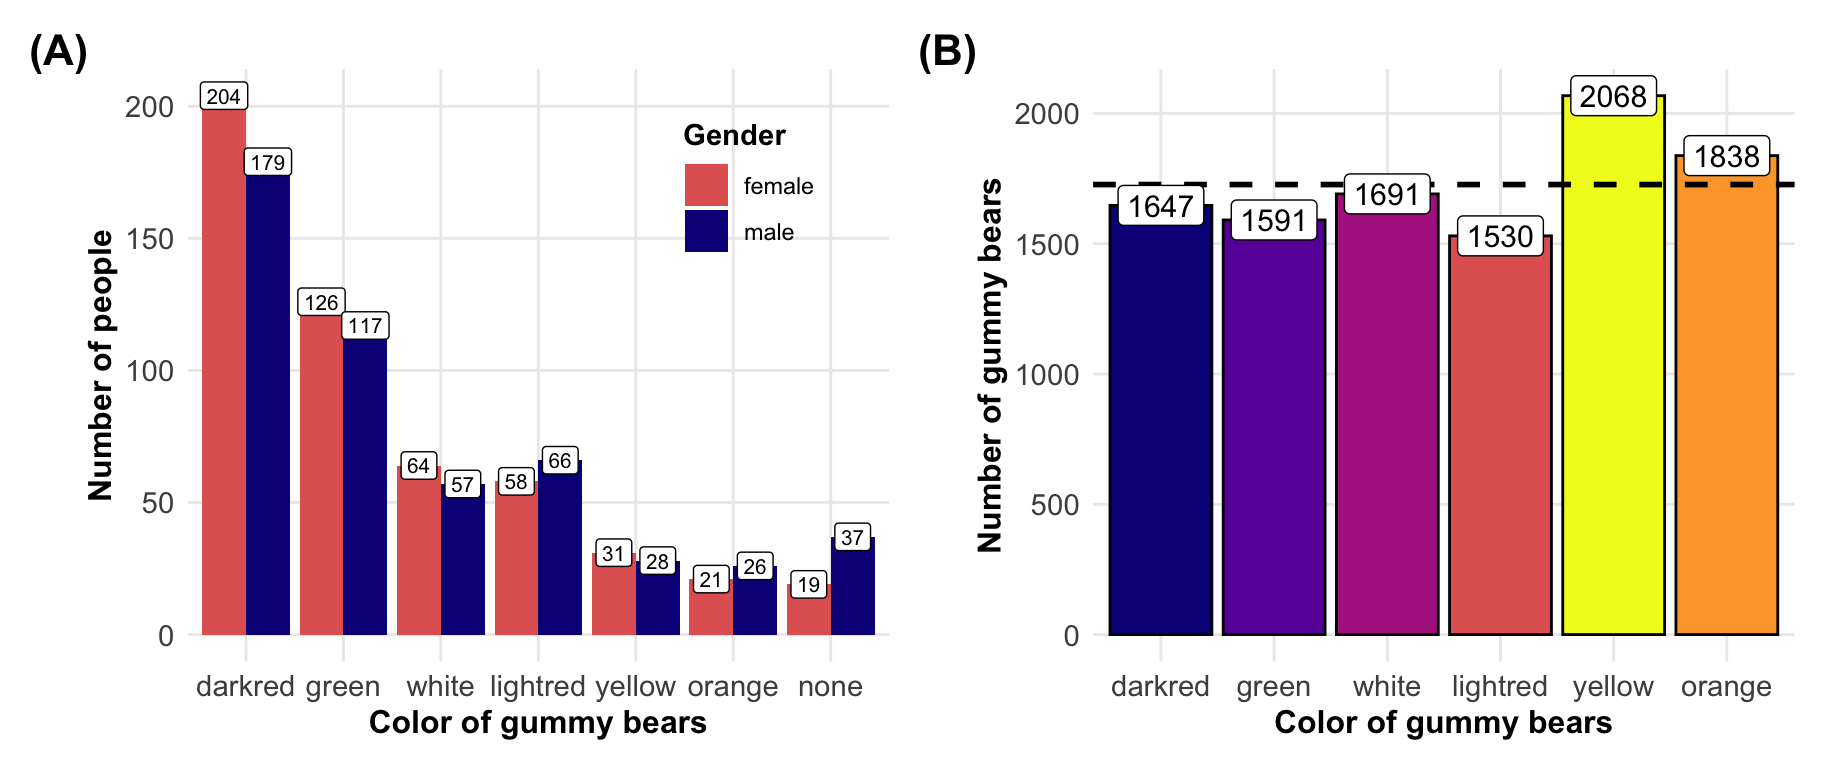
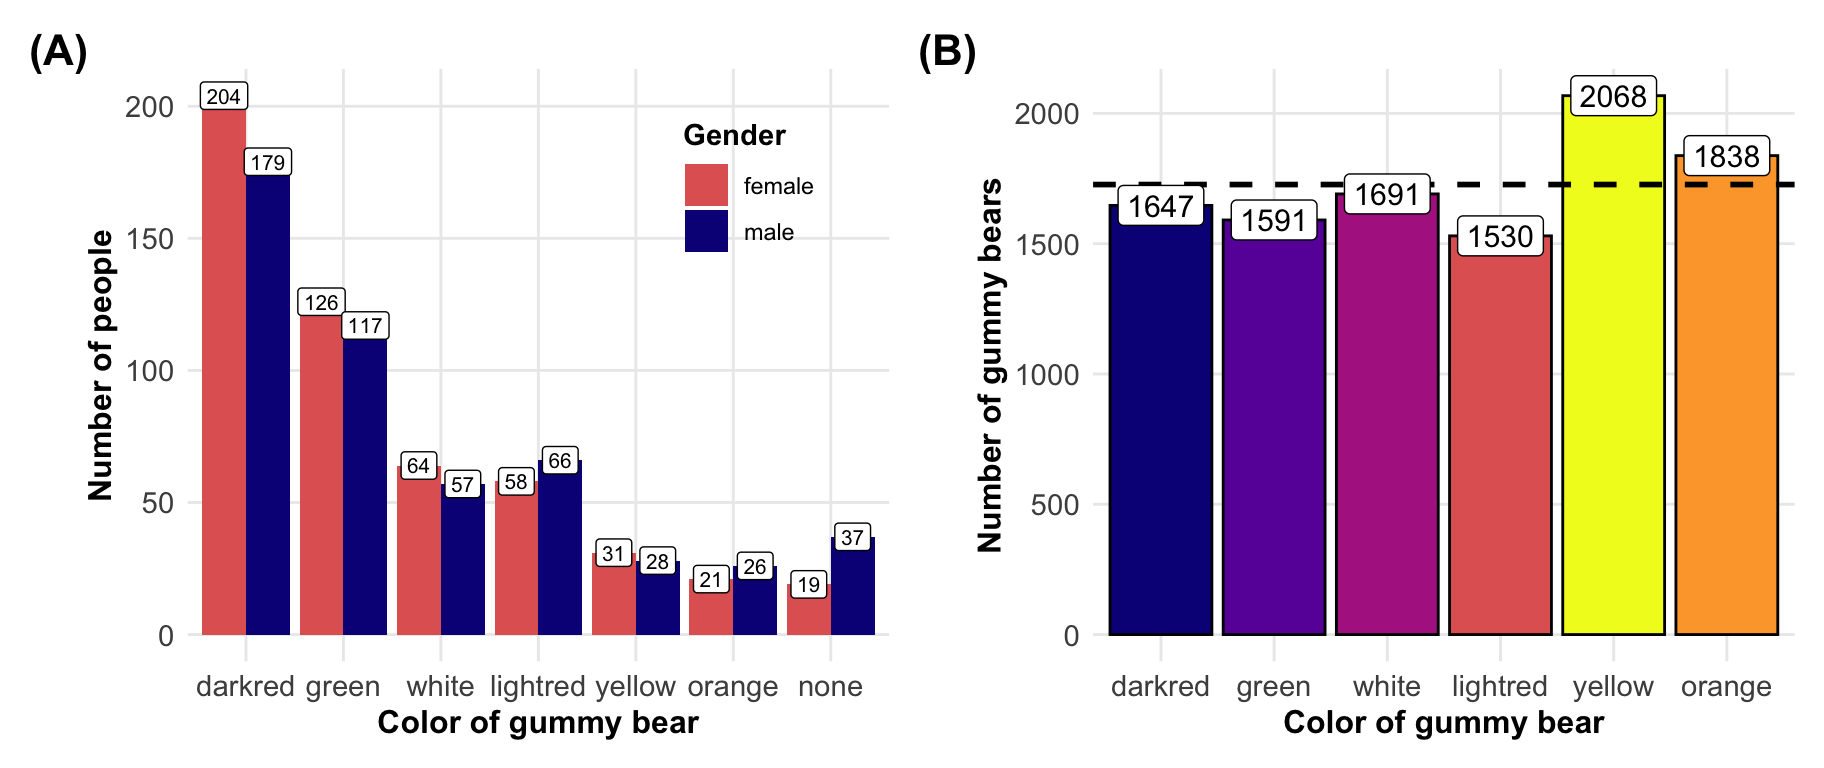
added

Changed region(s): [[0.6875, 0.9062, 0.9062, 0.9688], [0.1875, 0.9062, 0.4062, 0.9688]]

diff --git a/docs/interlude-I-gummibaers.html b/docs/interlude-I-gummibaers.html
@@ -454,7 +454,7 @@ window.Quarto = {
 </header>
 
 
-<p><em>Last modified on 29. September 2026 at 20:34:38</em></p>
+<p><em>Last modified on 30. September 2026 at 07:26:18</em></p>
 <blockquote class="blockquote">
 <p><em>“gummy Bears! Bouncing here and there and everywhere; High adventure that’s beyond compare; They are the gummy Bears.” — gummy Bears Theme, Adventures of the gummy Bears</em></p>
 </blockquote>
@@ -975,7 +975,7 @@ Figure&nbsp;4.4: Does Haribo know the common people’s preferences for gummy be
 <section id="gummy-bear-lottery" class="level3" data-number="4.4.4">
 <h3 data-number="4.4.4" class="anchored" data-anchor-id="gummy-bear-lottery"><span class="header-section-number">4.4.4</span> Gummy bear lottery</h3>
 <p><span class="math display">\[
-Pr = \cfrac{1}{6}^{b-1}
+Pr(c=1|b=1) = \cfrac{1}{6}^{b-1}
 \]</span></p>
 <div class="cell" data-layout-align="center">
 <div class="cell-output-display">
@@ -1844,7 +1844,7 @@ Figure&nbsp;4.6: Percentage of observed numbers of colours in a bag given differ
 <span id="cb1-324"><a href="#cb1-324" aria-hidden="true" tabindex="-1"></a>  <span class="fu">theme_book</span>() <span class="sc">+</span></span>
 <span id="cb1-325"><a href="#cb1-325" aria-hidden="true" tabindex="-1"></a>  <span class="fu">geom_bar</span>(<span class="at">position =</span> <span class="st">"dodge"</span>) <span class="sc">+</span></span>
 <span id="cb1-326"><a href="#cb1-326" aria-hidden="true" tabindex="-1"></a>  <span class="co">#scale_x_continuous(breaks = seq(5, 15, by = 1), limits = c(5, 15)) +</span></span>
-<span id="cb1-327"><a href="#cb1-327" aria-hidden="true" tabindex="-1"></a>  <span class="fu">labs</span>(<span class="at">x =</span> <span class="st">"Color of gummy bears"</span>, <span class="at">y =</span> <span class="st">"Number of people"</span>, <span class="at">fill =</span> <span class="st">"Gender"</span>) <span class="sc">+</span></span>
+<span id="cb1-327"><a href="#cb1-327" aria-hidden="true" tabindex="-1"></a>  <span class="fu">labs</span>(<span class="at">x =</span> <span class="st">"Color of gummy bear"</span>, <span class="at">y =</span> <span class="st">"Number of people"</span>, <span class="at">fill =</span> <span class="st">"Gender"</span>) <span class="sc">+</span></span>
 <span id="cb1-328"><a href="#cb1-328" aria-hidden="true" tabindex="-1"></a>  <span class="fu">theme</span>(<span class="at">legend.position =</span> <span class="fu">c</span>(<span class="fl">0.8</span>, <span class="fl">0.8</span>)) <span class="sc">+</span></span>
 <span id="cb1-329"><a href="#cb1-329" aria-hidden="true" tabindex="-1"></a>  <span class="fu">geom_label</span>(<span class="at">stat=</span><span class="st">'count'</span>, <span class="fu">aes</span>(<span class="at">label=</span>..count.., <span class="at">group =</span> gender), </span>
 <span id="cb1-330"><a href="#cb1-330" aria-hidden="true" tabindex="-1"></a>             <span class="at">size =</span> <span class="fl">2.75</span>, <span class="at">fill =</span> <span class="st">"white"</span>, <span class="at">position =</span> <span class="fu">position_dodge</span>(<span class="fl">0.9</span>)) <span class="sc">+</span></span>
@@ -1865,7 +1865,7 @@ Figure&nbsp;4.6: Percentage of observed numbers of colours in a bag given differ
 <span id="cb1-345"><a href="#cb1-345" aria-hidden="true" tabindex="-1"></a>  <span class="fu">theme_book</span>() <span class="sc">+</span></span>
 <span id="cb1-346"><a href="#cb1-346" aria-hidden="true" tabindex="-1"></a>  <span class="fu">geom_bar</span>(<span class="at">position =</span> <span class="st">"dodge"</span>, <span class="at">color =</span> <span class="st">"black"</span>, </span>
 <span id="cb1-347"><a href="#cb1-347" aria-hidden="true" tabindex="-1"></a>           <span class="at">fill =</span> <span class="fu">c</span>(<span class="st">"#0D0887FF"</span>, <span class="st">"#6A00A8FF"</span>, <span class="st">"#B12A90FF"</span>, <span class="st">"#E16462FF"</span> ,<span class="st">"#F0F921FF"</span>, <span class="st">"#FCA636FF"</span>)) <span class="sc">+</span></span>
-<span id="cb1-348"><a href="#cb1-348" aria-hidden="true" tabindex="-1"></a>  <span class="fu">labs</span>(<span class="at">x =</span> <span class="st">"Color of gummy bears"</span>, <span class="at">y =</span> <span class="st">"Number of gummy bears"</span>)  <span class="sc">+</span></span>
+<span id="cb1-348"><a href="#cb1-348" aria-hidden="true" tabindex="-1"></a>  <span class="fu">labs</span>(<span class="at">x =</span> <span class="st">"Color of gummy bear"</span>, <span class="at">y =</span> <span class="st">"Number of gummy bears"</span>)  <span class="sc">+</span></span>
 <span id="cb1-349"><a href="#cb1-349" aria-hidden="true" tabindex="-1"></a>  <span class="fu">geom_hline</span>(<span class="at">yintercept =</span> <span class="fu">floor</span>(<span class="fu">nrow</span>(count_bag_tbl)<span class="sc">/</span><span class="dv">6</span>), </span>
 <span id="cb1-350"><a href="#cb1-350" aria-hidden="true" tabindex="-1"></a>             <span class="at">linetype =</span> <span class="dv">2</span>, <span class="at">size =</span> <span class="dv">1</span>) <span class="sc">+</span></span>
 <span id="cb1-351"><a href="#cb1-351" aria-hidden="true" tabindex="-1"></a>  <span class="fu">geom_label</span>(<span class="at">stat=</span><span class="st">'count'</span>, <span class="fu">aes</span>(<span class="at">label=</span>..count..), <span class="at">size =</span> <span class="dv">4</span>) </span>
@@ -1880,7 +1880,7 @@ Figure&nbsp;4.6: Percentage of observed numbers of colours in a bag given differ
 <span id="cb1-360"><a href="#cb1-360" aria-hidden="true" tabindex="-1"></a><span class="fu">### Gummy bear lottery</span></span>
 <span id="cb1-361"><a href="#cb1-361" aria-hidden="true" tabindex="-1"></a></span>
 <span id="cb1-362"><a href="#cb1-362" aria-hidden="true" tabindex="-1"></a>$$</span>
-<span id="cb1-363"><a href="#cb1-363" aria-hidden="true" tabindex="-1"></a>Pr = \cfrac{1}{6}^{b-1}</span>
+<span id="cb1-363"><a href="#cb1-363" aria-hidden="true" tabindex="-1"></a>Pr(c=1|b=1) = \cfrac{1}{6}^{b-1}</span>
 <span id="cb1-364"><a href="#cb1-364" aria-hidden="true" tabindex="-1"></a>$$</span>
 <span id="cb1-365"><a href="#cb1-365" aria-hidden="true" tabindex="-1"></a></span>
 <span id="cb1-368"><a href="#cb1-368" aria-hidden="true" tabindex="-1"></a><span class="in">```{r}</span></span>
@@ -1917,7 +1917,7 @@ Figure&nbsp;4.6: Percentage of observed numbers of colours in a bag given differ
 <span id="cb1-399"><a href="#cb1-399" aria-hidden="true" tabindex="-1"></a>  <span class="fu">geom_point2</span>(<span class="at">data =</span> <span class="fu">filter</span>(grid_table_tbl, bears <span class="sc">%in%</span> <span class="dv">9</span><span class="sc">:</span><span class="dv">12</span>),</span>
 <span id="cb1-400"><a href="#cb1-400" aria-hidden="true" tabindex="-1"></a>              <span class="at">show.legend =</span> <span class="cn">FALSE</span>) <span class="sc">+</span></span>
 <span id="cb1-401"><a href="#cb1-401" aria-hidden="true" tabindex="-1"></a>  <span class="fu">scale_x_continuous</span>(<span class="at">breaks =</span> <span class="dv">1</span><span class="sc">:</span><span class="dv">12</span>) <span class="sc">+</span></span>
-<span id="cb1-402"><a href="#cb1-402" aria-hidden="true" tabindex="-1"></a>  <span class="fu">labs</span>(<span class="at">color =</span> <span class="st">"Number of colors"</span>, <span class="at">x =</span> <span class="st">"Number of bears in a bag"</span>,</span>
+<span id="cb1-402"><a href="#cb1-402" aria-hidden="true" tabindex="-1"></a>  <span class="fu">labs</span>(<span class="at">color =</span> <span class="st">"Number of colors (c) in a bag"</span>, <span class="at">x =</span> <span class="st">"Number of bears (b) in a bag"</span>,</span>
 <span id="cb1-403"><a href="#cb1-403" aria-hidden="true" tabindex="-1"></a>       <span class="at">y =</span> <span class="st">"Probability"</span>) <span class="sc">+</span></span>
 <span id="cb1-404"><a href="#cb1-404" aria-hidden="true" tabindex="-1"></a>  <span class="fu">scale_color_viridis</span>(<span class="at">option =</span> <span class="st">"plasma"</span>, <span class="at">discrete =</span> <span class="cn">TRUE</span>, <span class="at">end =</span> <span class="fl">0.9</span>) <span class="sc">+</span></span>
 <span id="cb1-405"><a href="#cb1-405" aria-hidden="true" tabindex="-1"></a>  <span class="fu">guides</span>(<span class="at">color =</span> <span class="fu">guide_legend</span>(<span class="at">nrow =</span> <span class="dv">1</span>, <span class="at">byrow =</span> <span class="cn">TRUE</span>)) </span>
@@ -1954,17 +1954,17 @@ Figure&nbsp;4.6: Percentage of observed numbers of colours in a bag given differ
 <span id="cb1-438"><a href="#cb1-438" aria-hidden="true" tabindex="-1"></a>             <span class="at">color =</span> <span class="fu">rep</span>(<span class="dv">1</span><span class="sc">:</span><span class="dv">6</span>, <span class="dv">2</span>),</span>
 <span id="cb1-439"><a href="#cb1-439" aria-hidden="true" tabindex="-1"></a>             <span class="at">percent =</span> <span class="fu">c</span>(<span class="fu">c</span>(<span class="dv">0</span>, <span class="dv">0</span>, bear_8_vec),</span>
 <span id="cb1-440"><a href="#cb1-440" aria-hidden="true" tabindex="-1"></a>                         <span class="dv">0</span>, <span class="fl">0.002268376</span>, <span class="fl">0.069015775</span>, <span class="fl">0.364583333</span>, <span class="fl">0.450102881</span>, <span class="fl">0.114026063</span>),</span>
-<span id="cb1-441"><a href="#cb1-441" aria-hidden="true" tabindex="-1"></a>             <span class="at">bears =</span> <span class="st">"8 bears in a bag"</span>),</span>
+<span id="cb1-441"><a href="#cb1-441" aria-hidden="true" tabindex="-1"></a>             <span class="at">bears =</span> <span class="st">"8 bears in a bag (b = 8)"</span>),</span>
 <span id="cb1-442"><a href="#cb1-442" aria-hidden="true" tabindex="-1"></a>      <span class="fu">tibble</span>(<span class="at">type =</span> <span class="fu">gl</span>(<span class="dv">2</span>, <span class="dv">6</span>, <span class="at">labels =</span> <span class="fu">c</span>(<span class="st">"observed"</span>, <span class="st">"expected"</span>)),</span>
 <span id="cb1-443"><a href="#cb1-443" aria-hidden="true" tabindex="-1"></a>             <span class="at">color =</span> <span class="fu">rep</span>(<span class="dv">1</span><span class="sc">:</span><span class="dv">6</span>, <span class="dv">2</span>),</span>
 <span id="cb1-444"><a href="#cb1-444" aria-hidden="true" tabindex="-1"></a>             <span class="at">percent =</span> <span class="fu">c</span>(<span class="fu">c</span>(<span class="dv">0</span>, bear_9_vec),</span>
 <span id="cb1-445"><a href="#cb1-445" aria-hidden="true" tabindex="-1"></a>                         <span class="dv">0</span>, <span class="fl">0.000759102</span>, <span class="fl">0.036020138</span>, <span class="fl">0.277563443</span>, <span class="fl">0.496613512</span>, <span class="fl">0.18904321</span>),</span>
-<span id="cb1-446"><a href="#cb1-446" aria-hidden="true" tabindex="-1"></a>             <span class="at">bears =</span> <span class="st">"9 bears in a bag"</span>),</span>
+<span id="cb1-446"><a href="#cb1-446" aria-hidden="true" tabindex="-1"></a>             <span class="at">bears =</span> <span class="st">"9 bears in a bag (b = 9)"</span>),</span>
 <span id="cb1-447"><a href="#cb1-447" aria-hidden="true" tabindex="-1"></a>      <span class="fu">tibble</span>(<span class="at">type =</span> <span class="fu">gl</span>(<span class="dv">2</span>, <span class="dv">6</span>, <span class="at">labels =</span> <span class="fu">c</span>(<span class="st">"observed"</span>, <span class="st">"simulated"</span>)),</span>
 <span id="cb1-448"><a href="#cb1-448" aria-hidden="true" tabindex="-1"></a>             <span class="at">color =</span> <span class="fu">rep</span>(<span class="dv">1</span><span class="sc">:</span><span class="dv">6</span>, <span class="dv">2</span>),</span>
 <span id="cb1-449"><a href="#cb1-449" aria-hidden="true" tabindex="-1"></a>             <span class="at">percent =</span> <span class="fu">c</span>(<span class="fu">c</span>(<span class="dv">0</span>, <span class="dv">0</span>, bear_10_vec),</span>
 <span id="cb1-450"><a href="#cb1-450" aria-hidden="true" tabindex="-1"></a>                         <span class="dv">0</span>, <span class="fl">0.0002601</span>, <span class="fl">0.0185012</span>, <span class="fl">0.2029175</span>, <span class="fl">0.5064902</span>, <span class="fl">0.271831</span>),</span>
-<span id="cb1-451"><a href="#cb1-451" aria-hidden="true" tabindex="-1"></a>             <span class="at">bears =</span> <span class="st">"10 bears in a bag"</span>)</span>
+<span id="cb1-451"><a href="#cb1-451" aria-hidden="true" tabindex="-1"></a>             <span class="at">bears =</span> <span class="st">"10 bears in a bag (b = 10)"</span>)</span>
 <span id="cb1-452"><a href="#cb1-452" aria-hidden="true" tabindex="-1"></a>)  <span class="sc">|&gt;</span> </span>
 <span id="cb1-453"><a href="#cb1-453" aria-hidden="true" tabindex="-1"></a>  <span class="fu">mutate</span>(<span class="at">bears =</span> <span class="fu">as_factor</span>(bears)) <span class="sc">|&gt;</span> </span>
 <span id="cb1-454"><a href="#cb1-454" aria-hidden="true" tabindex="-1"></a>  <span class="fu">ggplot</span>(<span class="fu">aes</span>(<span class="at">x =</span> color, <span class="at">y =</span> percent, <span class="at">fill =</span> type)) <span class="sc">+</span></span>
@@ -1973,7 +1973,7 @@ Figure&nbsp;4.6: Percentage of observed numbers of colours in a bag given differ
 <span id="cb1-457"><a href="#cb1-457" aria-hidden="true" tabindex="-1"></a>  <span class="fu">scale_x_continuous</span>(<span class="at">breaks =</span> <span class="dv">1</span><span class="sc">:</span><span class="dv">6</span>) <span class="sc">+</span></span>
 <span id="cb1-458"><a href="#cb1-458" aria-hidden="true" tabindex="-1"></a>  <span class="fu">scale_y_continuous</span>(<span class="at">limits =</span> <span class="fu">c</span>(<span class="dv">0</span>, <span class="fl">0.6</span>), <span class="at">breaks =</span> <span class="fu">seq</span>(<span class="dv">0</span>, <span class="fl">0.6</span>, <span class="fl">0.1</span>)) <span class="sc">+</span></span>
 <span id="cb1-459"><a href="#cb1-459" aria-hidden="true" tabindex="-1"></a>  <span class="fu">scale_fill_viridis</span>(<span class="at">option =</span> <span class="st">"plasma"</span>, <span class="at">discrete =</span> <span class="cn">TRUE</span>, <span class="at">end =</span> <span class="fl">0.8</span>) <span class="sc">+</span></span>
-<span id="cb1-460"><a href="#cb1-460" aria-hidden="true" tabindex="-1"></a>  <span class="fu">labs</span>(<span class="at">fill =</span> <span class="st">""</span>, <span class="at">y =</span> <span class="st">"Percentage"</span>, <span class="at">x =</span> <span class="st">"Number of colors in a bag"</span>) <span class="sc">+</span></span>
+<span id="cb1-460"><a href="#cb1-460" aria-hidden="true" tabindex="-1"></a>  <span class="fu">labs</span>(<span class="at">fill =</span> <span class="st">""</span>, <span class="at">y =</span> <span class="st">"Percentage"</span>, <span class="at">x =</span> <span class="st">"Number of colors (c) in a bag"</span>) <span class="sc">+</span></span>
 <span id="cb1-461"><a href="#cb1-461" aria-hidden="true" tabindex="-1"></a>  <span class="fu">theme</span>(<span class="at">legend.position =</span> <span class="fu">c</span>(<span class="fl">0.1</span>, <span class="fl">0.85</span>)) <span class="sc">+</span></span>
 <span id="cb1-462"><a href="#cb1-462" aria-hidden="true" tabindex="-1"></a>  <span class="fu">facet_wrap</span>(<span class="sc">~</span>bears)</span>
 <span id="cb1-463"><a href="#cb1-463" aria-hidden="true" tabindex="-1"></a></span>
